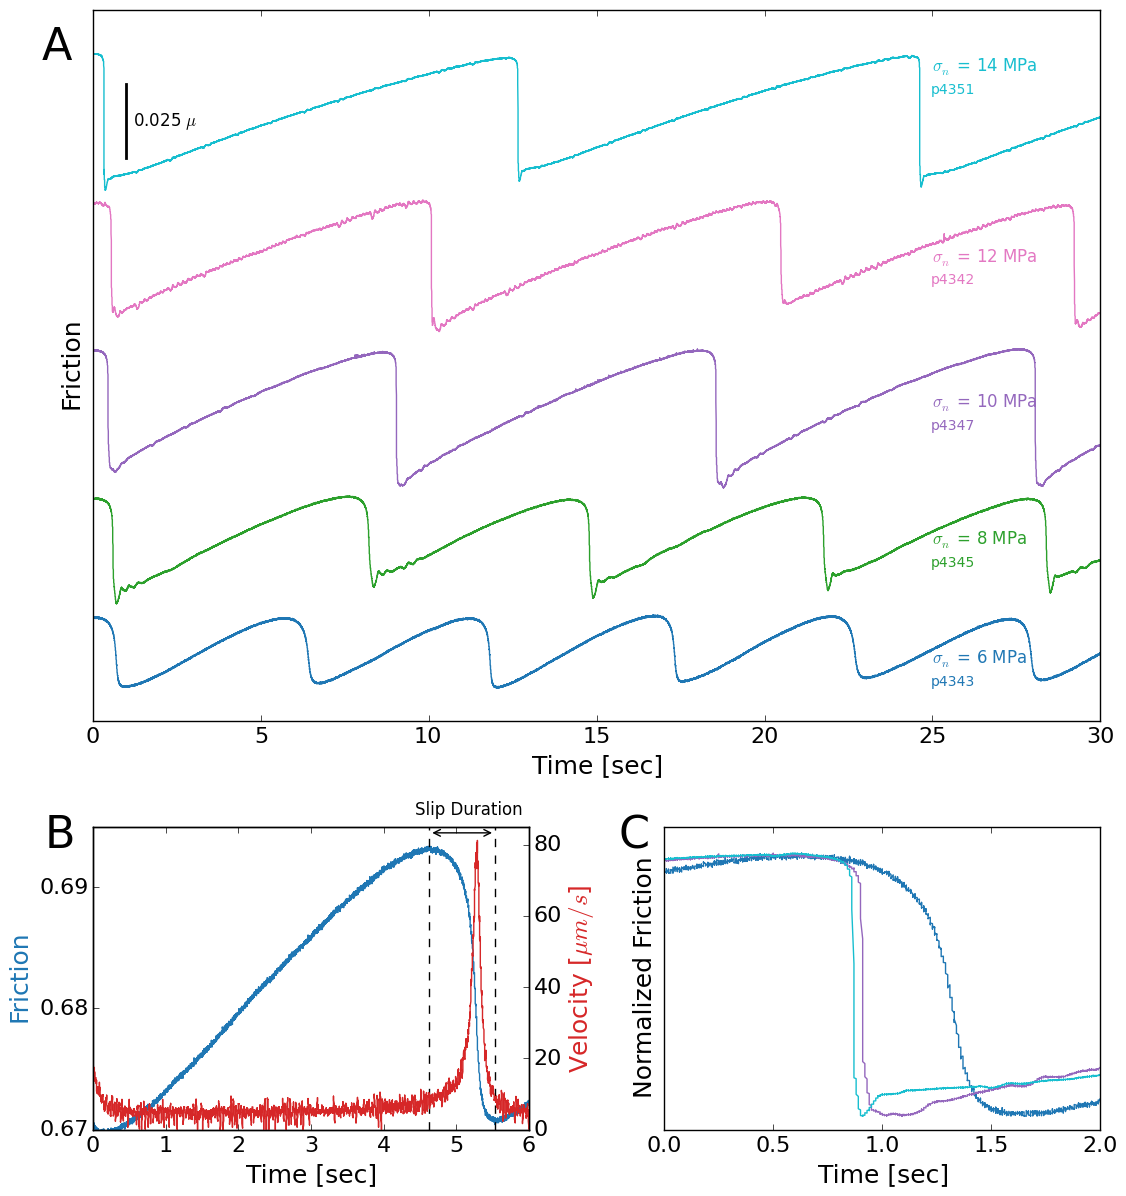
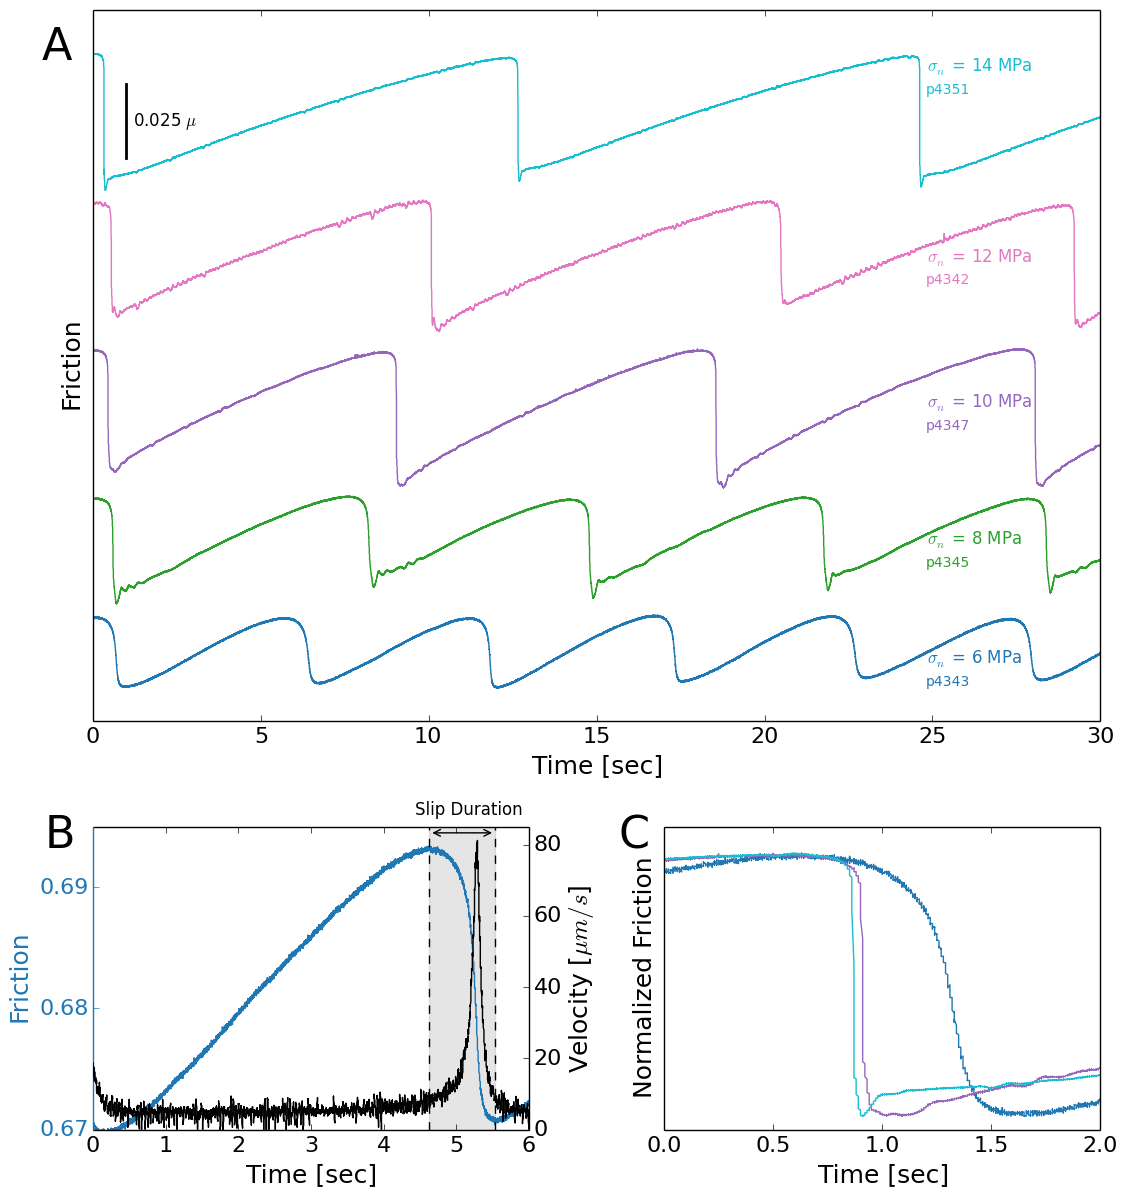
Add shaded box to panel C and slightly reposition text

diff --git a/Figures/Fig_Event_Zooms/make_plot.py b/Figures/Fig_Event_Zooms/make_plot.py
@@ -229,7 +229,7 @@ axA.plot(p4347['Time']-p4347['Time'][0],np.ravel(p4347['mu'])+0.05*2.5,label='10
 axA.plot(p4342['Time']-p4342['Time'][0],np.ravel(p4342['mu'])+0.05*3.5,label='12 MPa',color=tableau20[12])
 axA.plot(p4351['Time']-p4351['Time'][0],np.ravel(p4351['mu'])+0.05*4.5,label='14 MPa',color=tableau20[18])
 
-x_pos = 25.
+x_pos = 24.85
 
 axA.text(x_pos,np.min(p4343['mu'])+0.05*0.9,r'$\sigma_n$ = 6 MPa',fontsize=12,color=tableau20[0])
 axA.text(x_pos,np.min(p4345['mu'])+0.05*1.9,r'$\sigma_n$ = 8 MPa',fontsize=12,color=tableau20[4])
@@ -263,9 +263,14 @@ p4343_raw = ReadAscii(data_path+'/p4343/p4343_data.txt')
 # Set labels and tick sizes
 axB.set_xlabel(r'Time [sec]',fontsize=18)
 axB.set_ylabel(r'Friction',fontsize=18,color=tableau20[0])
-axBv.set_ylabel(r'Velocity [$\mu m/s$]',fontsize=18,color=tableau20[6])
+axBv.set_ylabel(r'Velocity [$\mu m/s$]',fontsize=18)
 axB.tick_params(axis='both', which='major', labelsize=16)
 axBv.tick_params(axis='both', which='major', labelsize=16)
+
+# Change colors of plot axes
+axB.spines['left'].set_color(tableau20[0])
+axB.yaxis.label.set_color(tableau20[0])
+axB.tick_params(axis='y', colors=tableau20[0])
 
 # Label Plot
 axB.text(-0.1,0.93,'B',transform = axB.transAxes,fontsize=32)
@@ -285,7 +290,7 @@ axBv.get_yaxis().set_ticks([0,20,40,60,80])
 #axBv.spines["top"].set_visible(False)
 
 velocity = rslope(np.ravel(p4343_raw['Time'][3799900:3805900]),np.ravel(p4343_raw['OB_Top'][3799900:3805900]),11)
-axBv.plot(np.ravel(p4343_raw['Time'][3799900:3805900]-p4343_raw['Time'][3799900]),velocity,color=tableau20[6],zorder=0)
+axBv.plot(np.ravel(p4343_raw['Time'][3799900:3805900]-p4343_raw['Time'][3799900]),velocity,color='k',zorder=0)
 
 # Plotting
 axB.plot(p4343_raw['Time'][3799900:3805900]-p4343_raw['Time'][3799900],p4343_raw['mu'][3799900:3805900],label='6 MPa',color=tableau20[0],zorder=1)
@@ -294,7 +299,7 @@ axB.plot(p4343_raw['Time'][3799900:3805900]-p4343_raw['Time'][3799900],p4343_raw
 #axB.scatter(p4343_raw['Time'][3805433],p4343_raw['mu'][3805433],color='g',s=50,zorder=2)
 
 # Mark the slip duration window
-#axB.axvspan(p4343_raw['Time'][3804529]-p4343_raw['Time'][3799900], p4343_raw['Time'][3805433]-p4343_raw['Time'][3799900], alpha=0.4, color='k')
+axB.axvspan(p4343_raw['Time'][3804529]-p4343_raw['Time'][3799900], p4343_raw['Time'][3805433]-p4343_raw['Time'][3799900], alpha=0.1, color='k')
 axB.axvline(x=p4343_raw['Time'][3804529]-p4343_raw['Time'][3799900],linestyle='--',color='k')
 axB.axvline(x=p4343_raw['Time'][3805433]-p4343_raw['Time'][3799900],linestyle='--',color='k')
 
